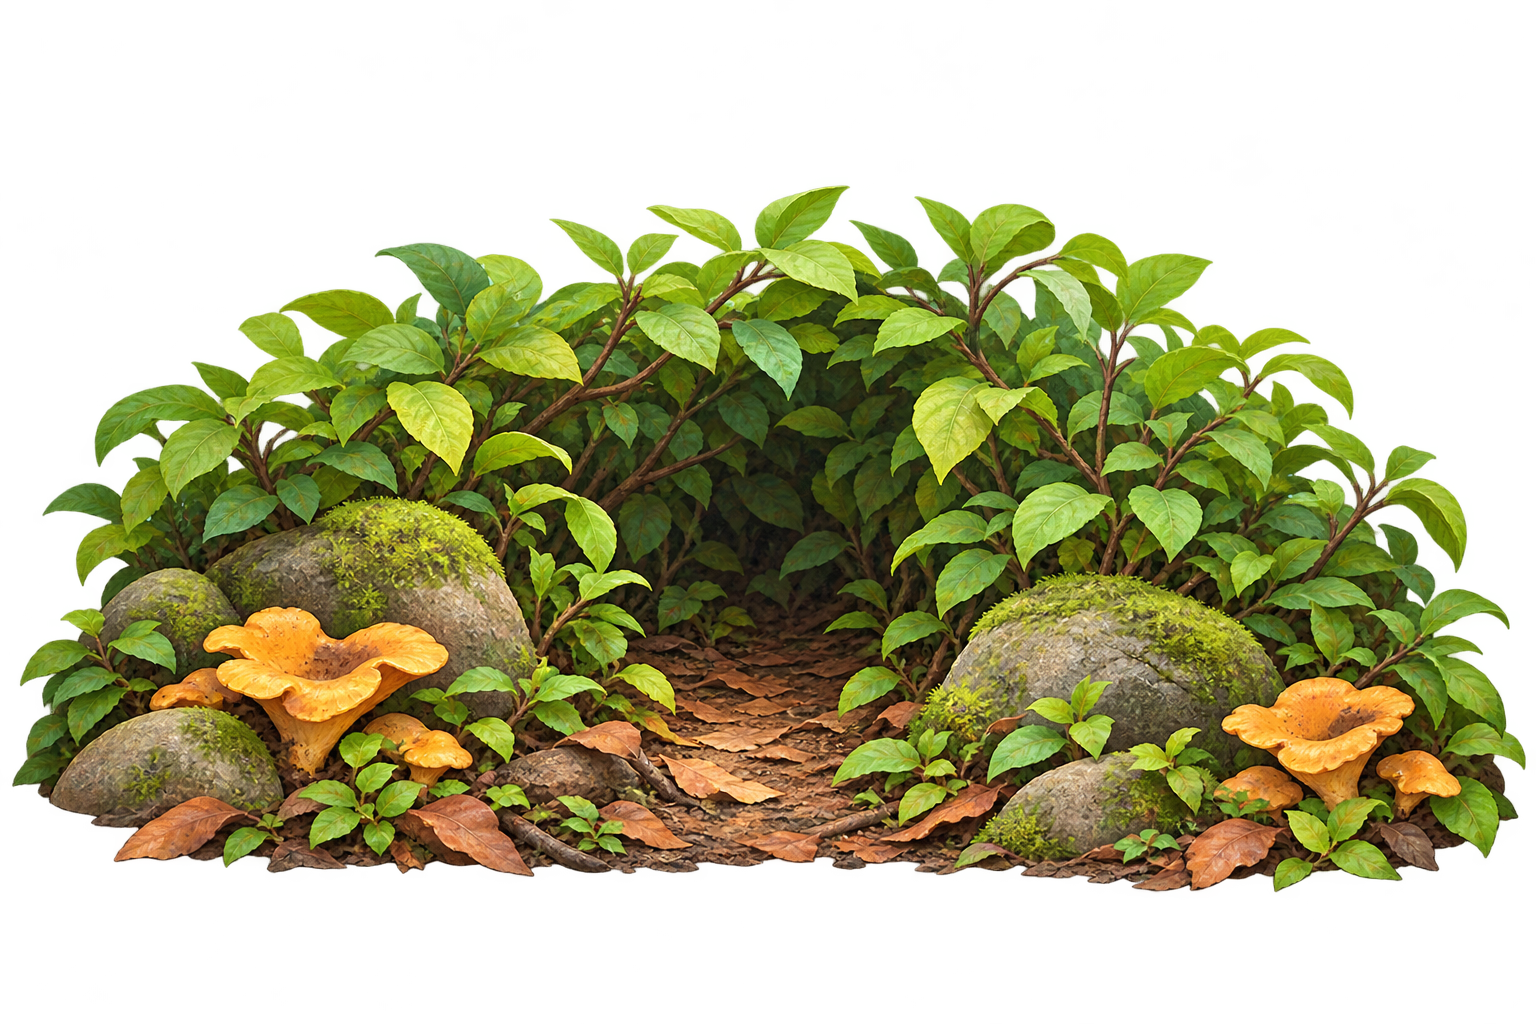
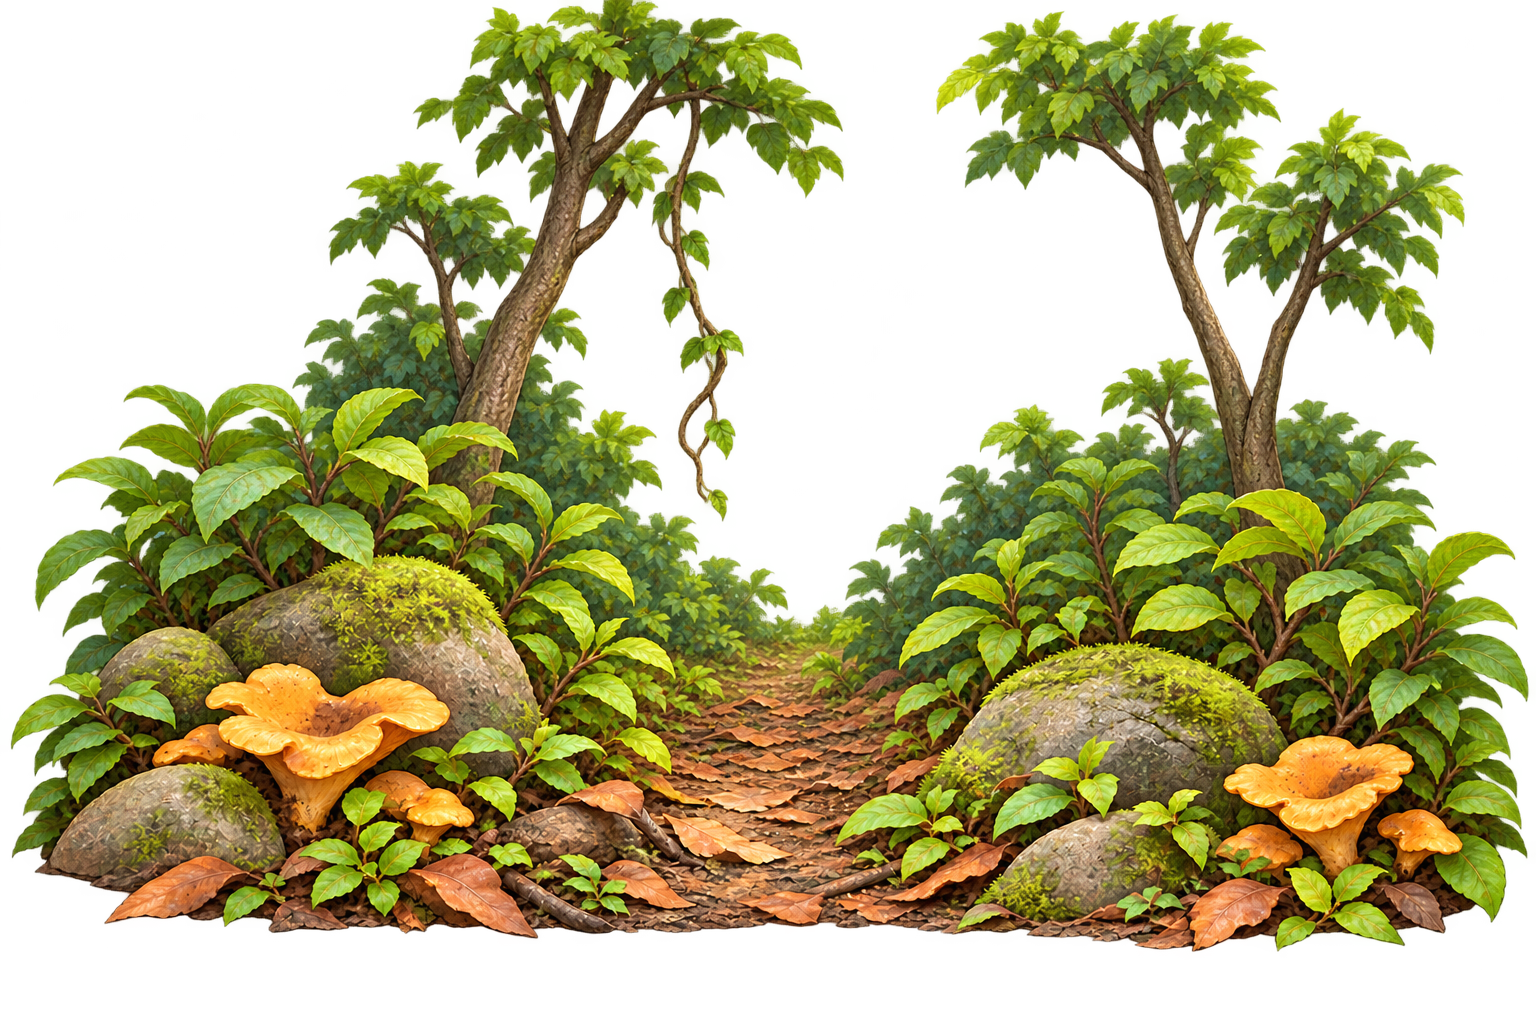
art: open the forest clearing

diff --git a/assets/cacomixtle/ending-art.md b/assets/cacomixtle/ending-art.md
@@ -38,3 +38,13 @@ Precise production sprite atlas REPACK/registration correction. Reference contai
 
 Use case illustration-story. Create one compact isolated woodland-underbrush entrance illustration for a children's app choice button. Photos1–3 are inspiration references ONLY for natural lush low shrubs, broad small green leaves, mossy stones, brown leaf litter and irregular golden-orange forest mushrooms. Reference4 cave is ART STYLE reference: match its soft painterly organic children's-game illustration, natural textures and warm green/brown/orange palette. Composition: low leafy bushes on both sides of a small dark central passage between plants; rounded mossy stones at ground, a few recognizable wavy golden-orange mushrooms at lower left and right; dense layered leaves frame opening so a small animal can walk INTO the bushes and disappear BEHIND foliage. Make a LOW WIDE cluster, not a tall tree or vast forest backdrop. Entire illustration fits compact3:2landscape silhouette with transparent margin, maximum foliage height~60% totalwidth. Clear dark inviting forestgapcenter slightly toleft/center, no scary eyes. TRUE TRANSPARENT background outside cluster. Do not reproduce animal droppings or any litter from photos. No animals/people/faces, no text, no border/button, no glow, no rectangular scene background, no full trees. Same scale/readability as cave button asset. Preserve natural photographic inspiration but render in reference4 painterly style.
 
+## Prompt 8 — open forest replacement (2026-10-15)
+
+- Tool: built-in `image_gen.imagegen`, edit mode with `transparent_background: true`.
+- Edit target: `apps/web/public/cacomixtle-forest.png`; style reference: `apps/web/public/cacomixtle-cave-roots.png`.
+- Final generated source: `/home/faloi/.codex/generated_images/01a1407a-94a2-7e01-b225-a1995ee4b6b6/exec-f91113d2-ac8c-4d54-bee4-f6728d9c1ffd.png`.
+- Production replacement: `apps/web/public/cacomixtle-forest.png`, 1536×1024 RGBA. Alpha verified: 604,583 fully transparent pixels; center upper clearing and corner alpha both 0. No source resampling or pixel edits.
+- Replaces Prompt 7's connected overhead foliage with separate shrubs, visible background trunks, a hanging liana and an open clearing. Preserves foreground orange mushrooms, mossy stones and leaf litter. Existing CSS and animation anchors retained.
+- Original photo paths from the earlier request had expired from `/tmp`; this edit used the inspected existing forest and cave assets. User photo motifs remain documented by Prompt 7.
+
+Use case: precise-object-edit. Asset: production transparent forest choice illustration for a children's app. Image1 is the EDIT TARGET; image2 is STYLE REFERENCE ONLY for matching painterly organic textures. Edit image1: preserve the recognizable golden-orange wavy mushrooms in the lower left and lower right foreground, their current arrangement, mossy rocks, leaf litter and warm illustrated detail as much as possible. Change the vegetation BEHIND this foreground to make an OPEN, asymmetrical woodland clearing with clearly SEPARATED low leafy shrub clumps. Remove the connected mound of leaves above the path completely. Add one or two slender visible tree trunks farther behind the shrubs, extending upward to sparse irregular foliage; one natural thin liana hangs from the upper foliage, off center. Leave conspicuous open light/transparent gaps between shrubs, trunks and hanging vine. The center must remain broad and open from ground upward, with an inviting visible leaf-litter ground path at approximately x52%, y72% of the canvas for an animal to enter. The shrubs must never join into a roof. No arch, no foliage bridge overhead, no dark tunnel, no rounded dome, no cave-shaped opening, no circular framing. More depth and openness behind the existing foreground, not more foreground clutter. Keep the compact 3:2 landscape framing, whole scene inside the image with transparent margins, current ground baseline and entry point approximately preserved; ensure slender trees stay fully inside canvas. Same soft painterly children's-game art, natural medium greens, warm brown trunks, moss and orange mushrooms. TRUE transparent alpha outside the individual plants and ground vignette, including the large airy gaps through the upper scene. No colored backdrop or sky rectangle, no fake checkerboard, no surrounding green glow, no text, no labels, no animals, no faces, no border or button. Deliver a single clean PNG illustration.
